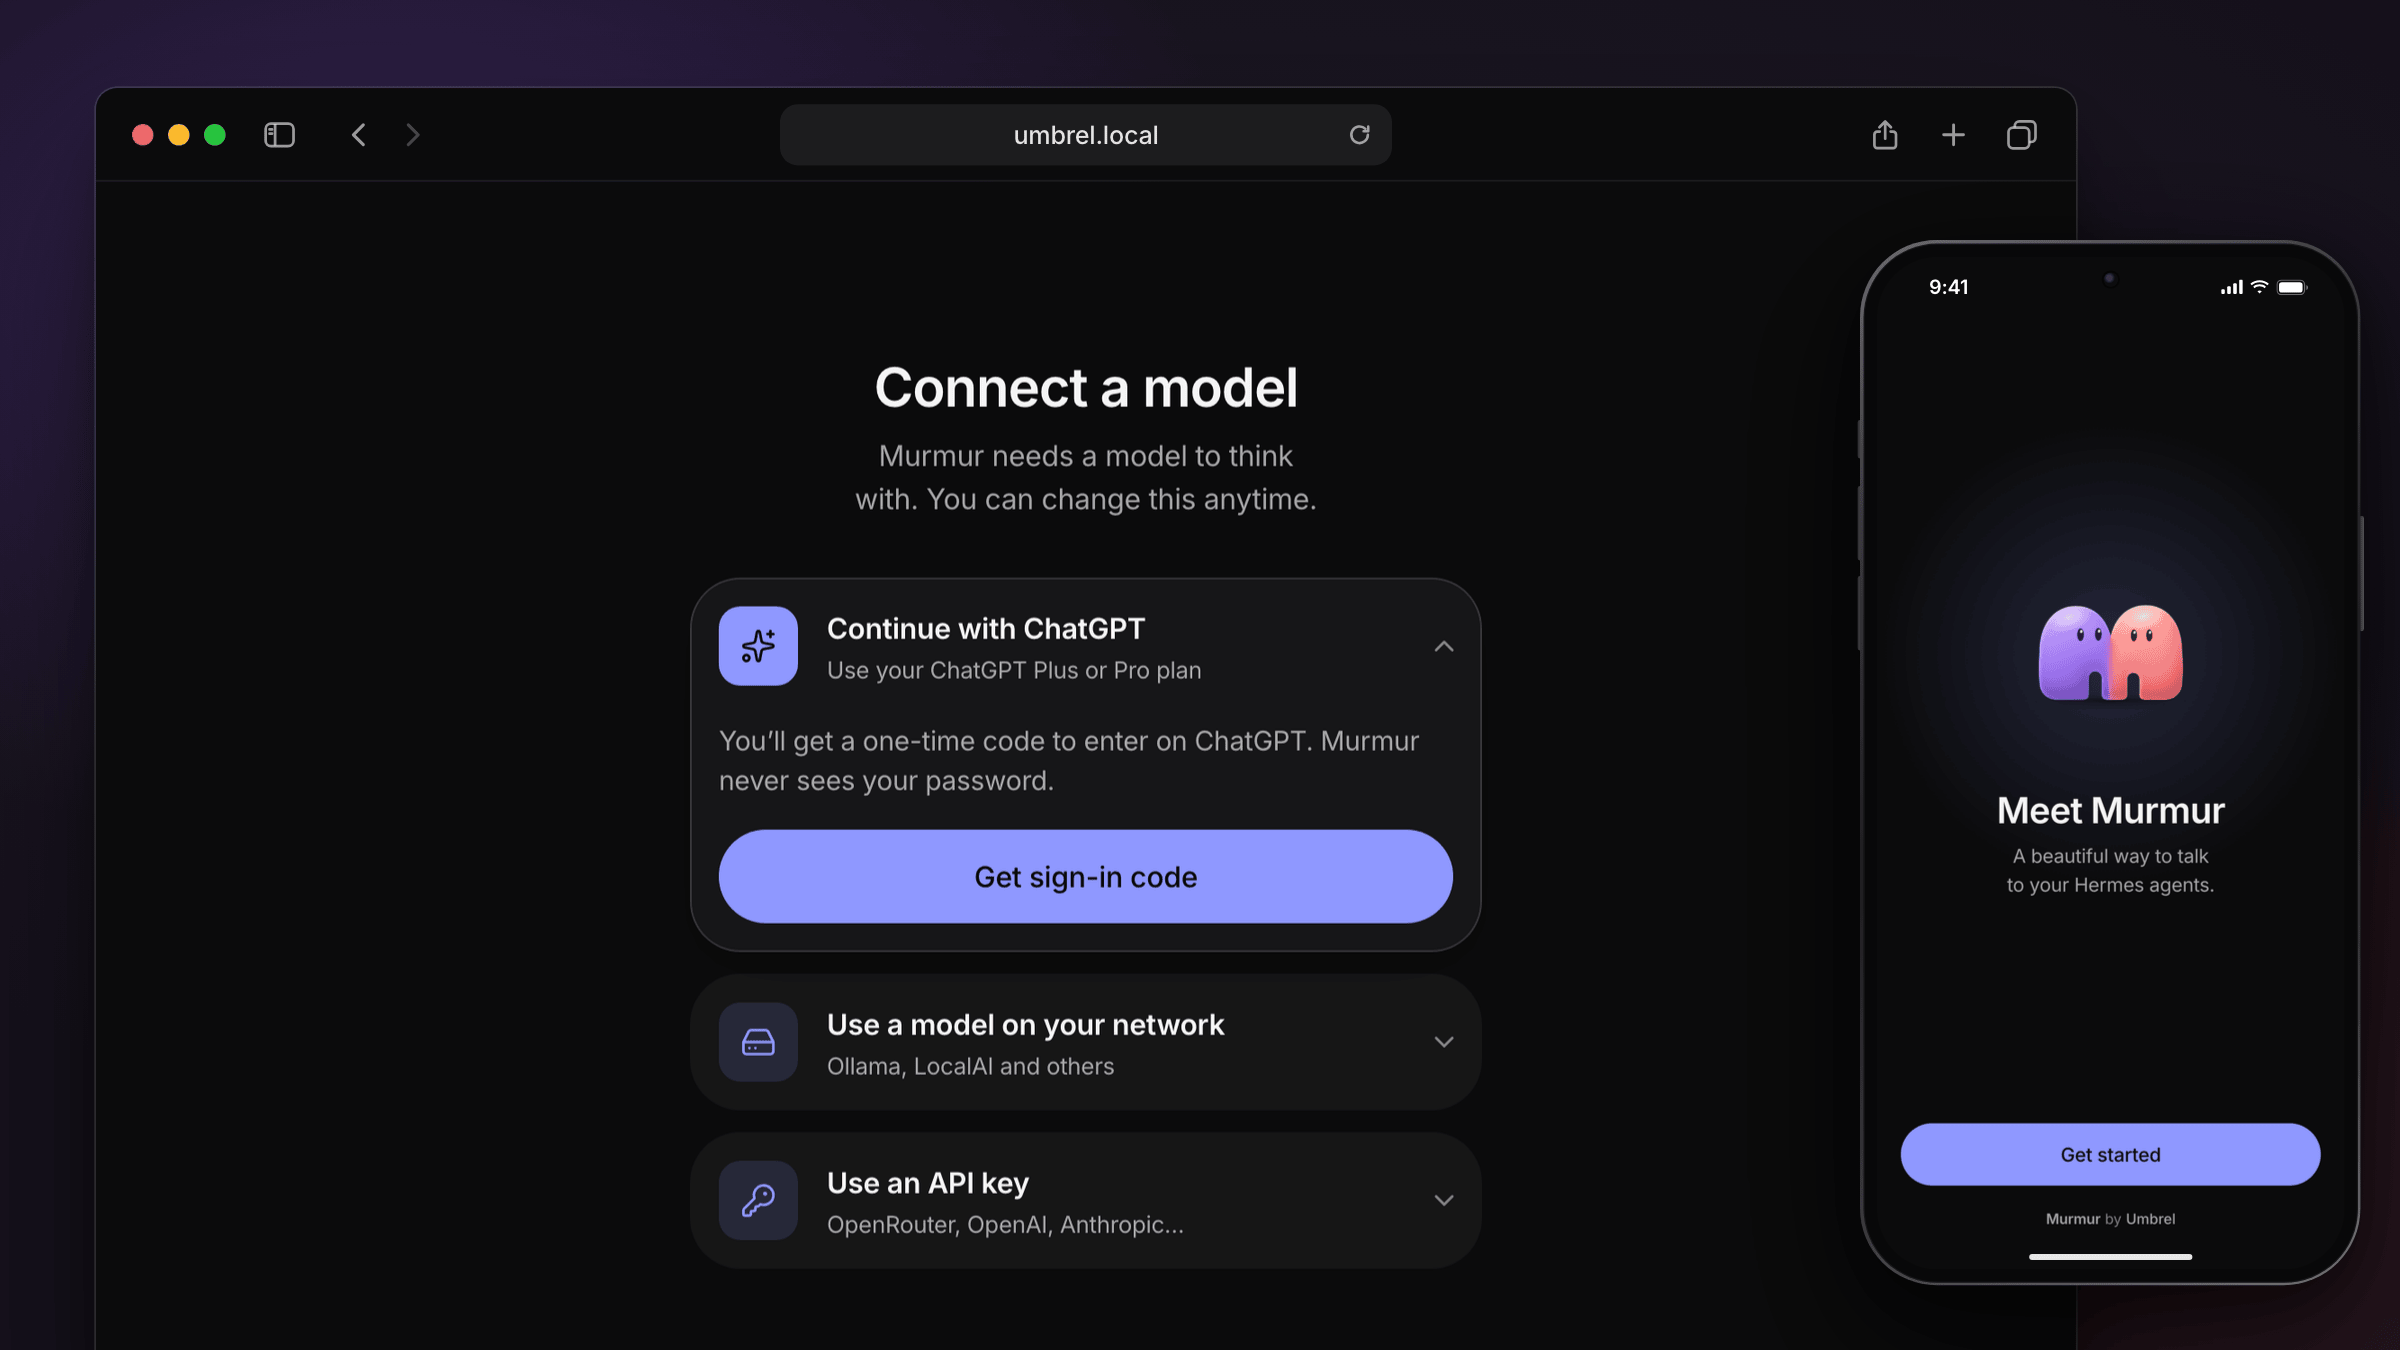
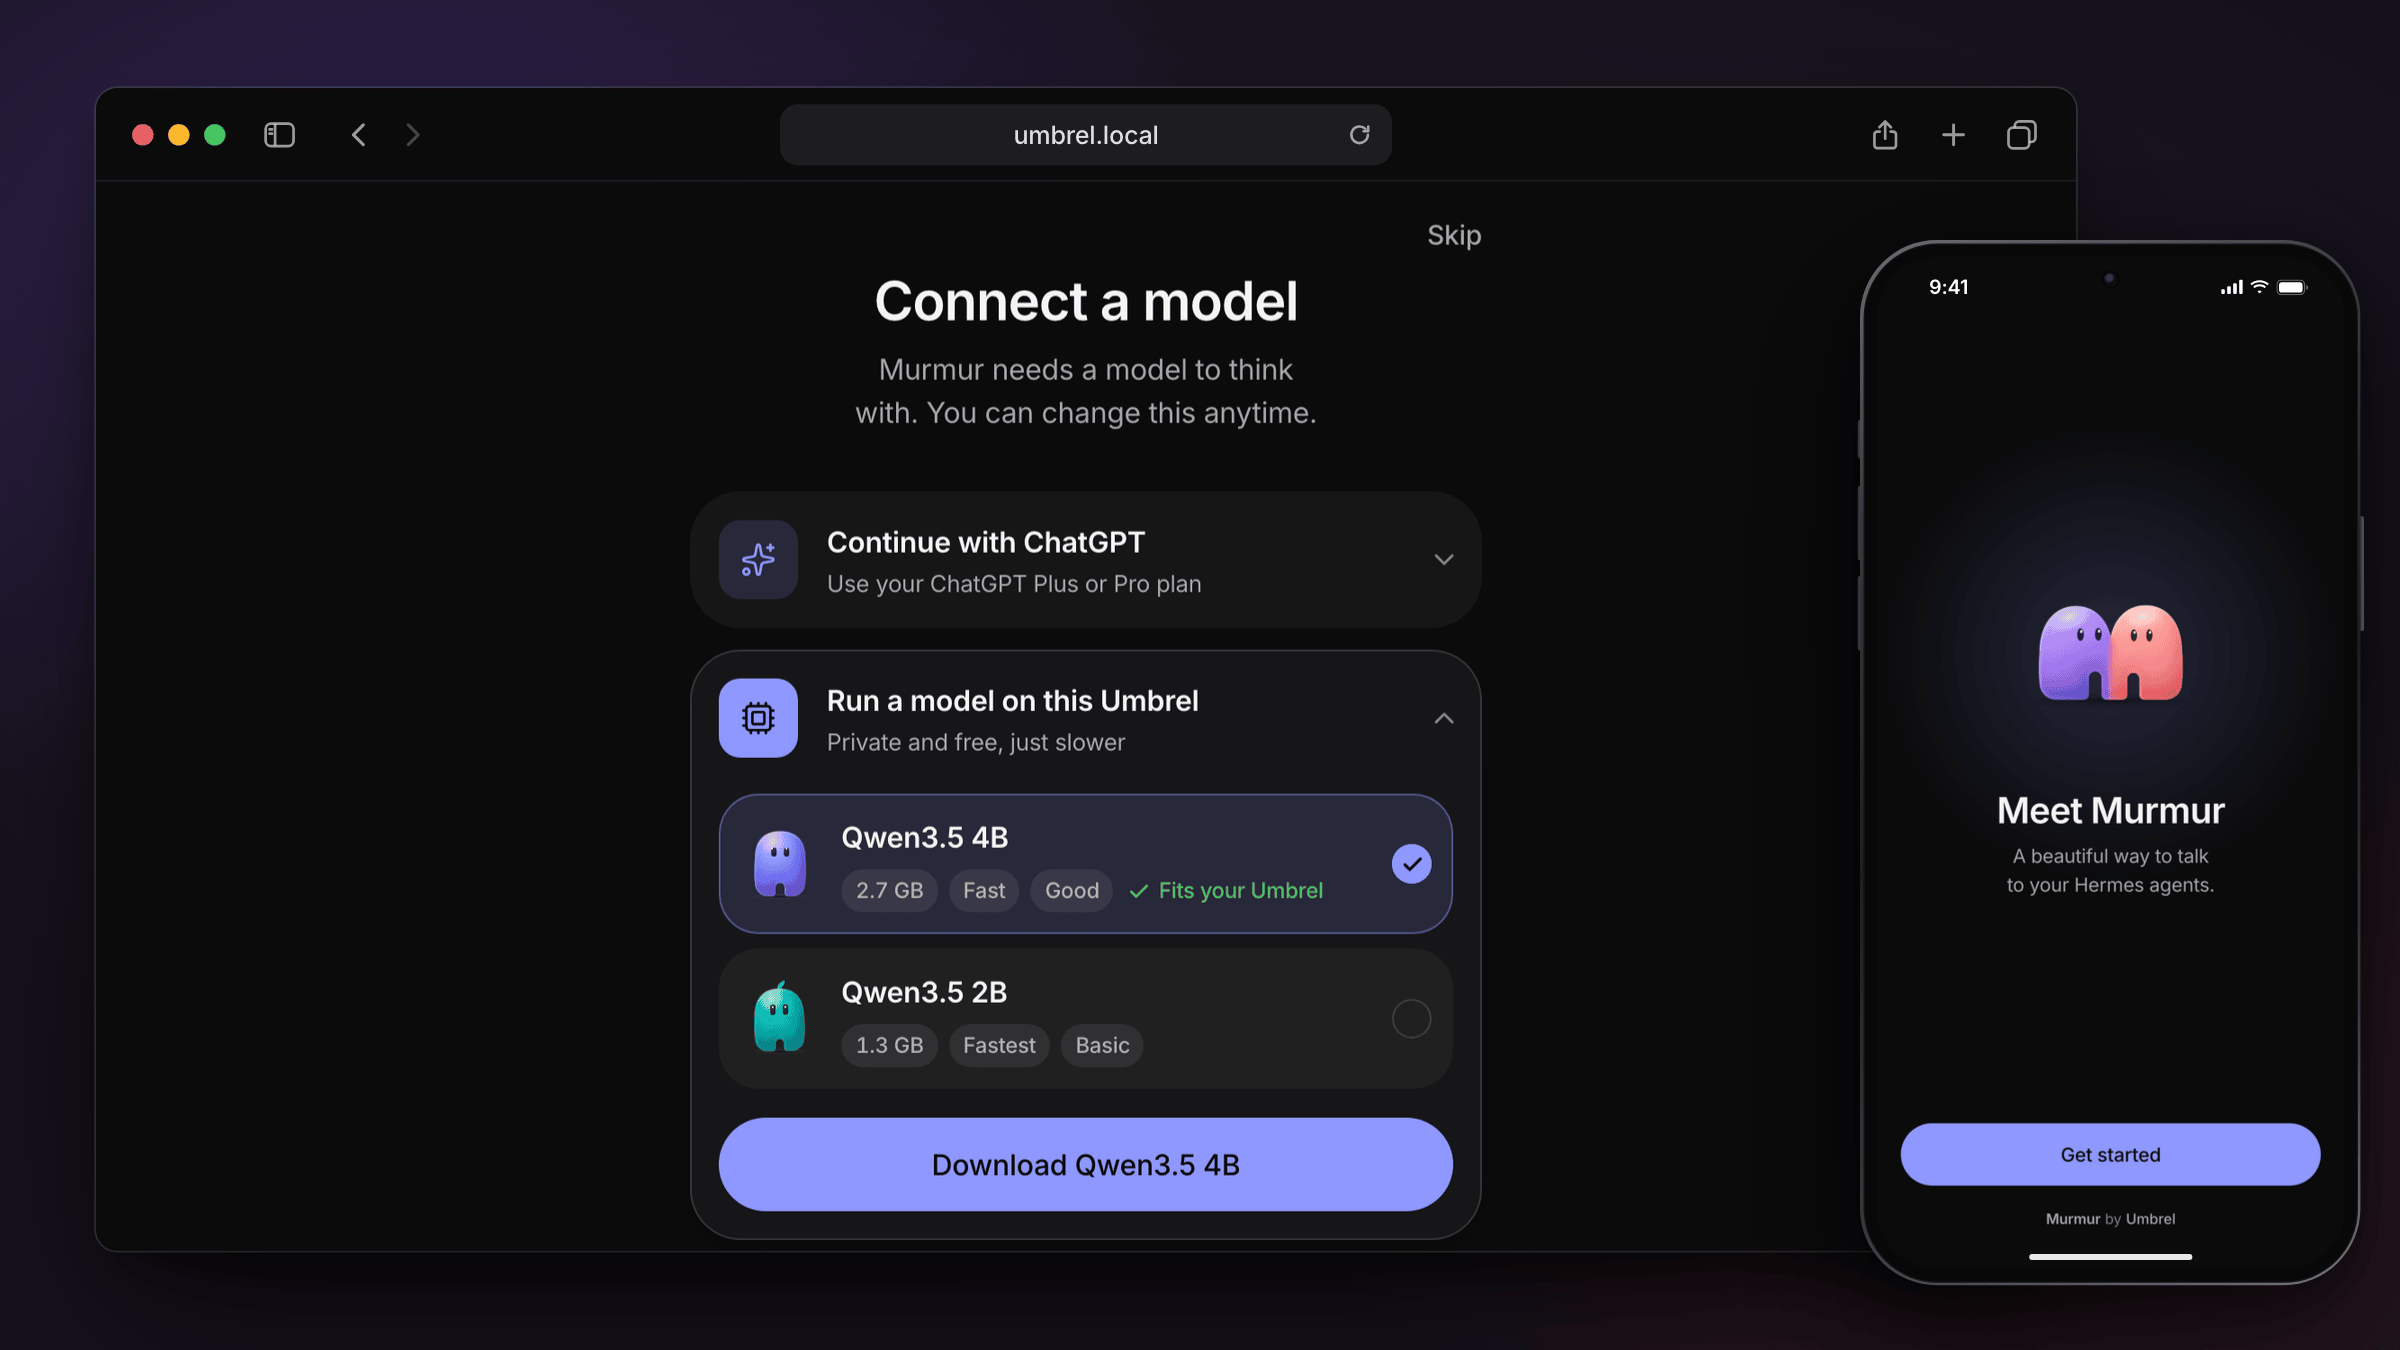
Murmur 0.4.0
Murmur asks umbrelOS for the GPU, so the Hermes that comes with it can run
local models on it (once its image adds Vulkan), and the README and store
listing show running a model on the Umbrel itself.

Changed region(s): [[0.2812, 0.2178, 0.625, 0.9333], [0.5938, 0.1556, 0.625, 0.1867], [0.0625, 0.0933, 0.0938, 0.1244]]

diff --git a/README.md b/README.md
@@ -70,10 +70,10 @@ Murmur comes with Hermes built in, so you can start fresh with nothing else to i
 
 <picture>
   <source media="(prefers-color-scheme: dark)" srcset="docs/readme/onboarding-wide-dark.png">
-  <img src="docs/readme/onboarding-wide-light.png" alt="Connect a model: continue with ChatGPT, use a model on your network, or use an API key" width="100%">
+  <img src="docs/readme/onboarding-wide-light.png" alt="Connect a model: continue with ChatGPT, run a model on the Umbrel itself, use a model server, or an API key" width="100%">
 </picture>
 
-Sign in with your ChatGPT plan, use a model running on your network such as Ollama, or paste an API key from OpenRouter, OpenAI, Anthropic and others. You can switch any time.
+Sign in with your ChatGPT plan, or run a model right on your Umbrel: Murmur picks one that fits its memory and sets it up in one tap. Or use Ollama or another model server, or an API key from OpenRouter, OpenAI, Anthropic and others. You can switch any time.
 
 ### Every chat comes with you
 
@@ -179,7 +179,7 @@ docker compose up -d
 Or run Murmur alone and point it at your Hermes. [`docs/STANDALONE.md`](docs/STANDALONE.md) has every option.
 
 ```sh
-docker run -d -p 3000:3000 -v murmur:/data ghcr.io/getumbrel/murmur:0.3
+docker run -d -p 3000:3000 -v murmur:/data ghcr.io/getumbrel/murmur:0.4
 ```
 
 Murmur comes with **Hermes 0.22.0**, and works with any **Hermes Agent 0.21.4 or newer**. If yours is older, Murmur shows you how to update it.
